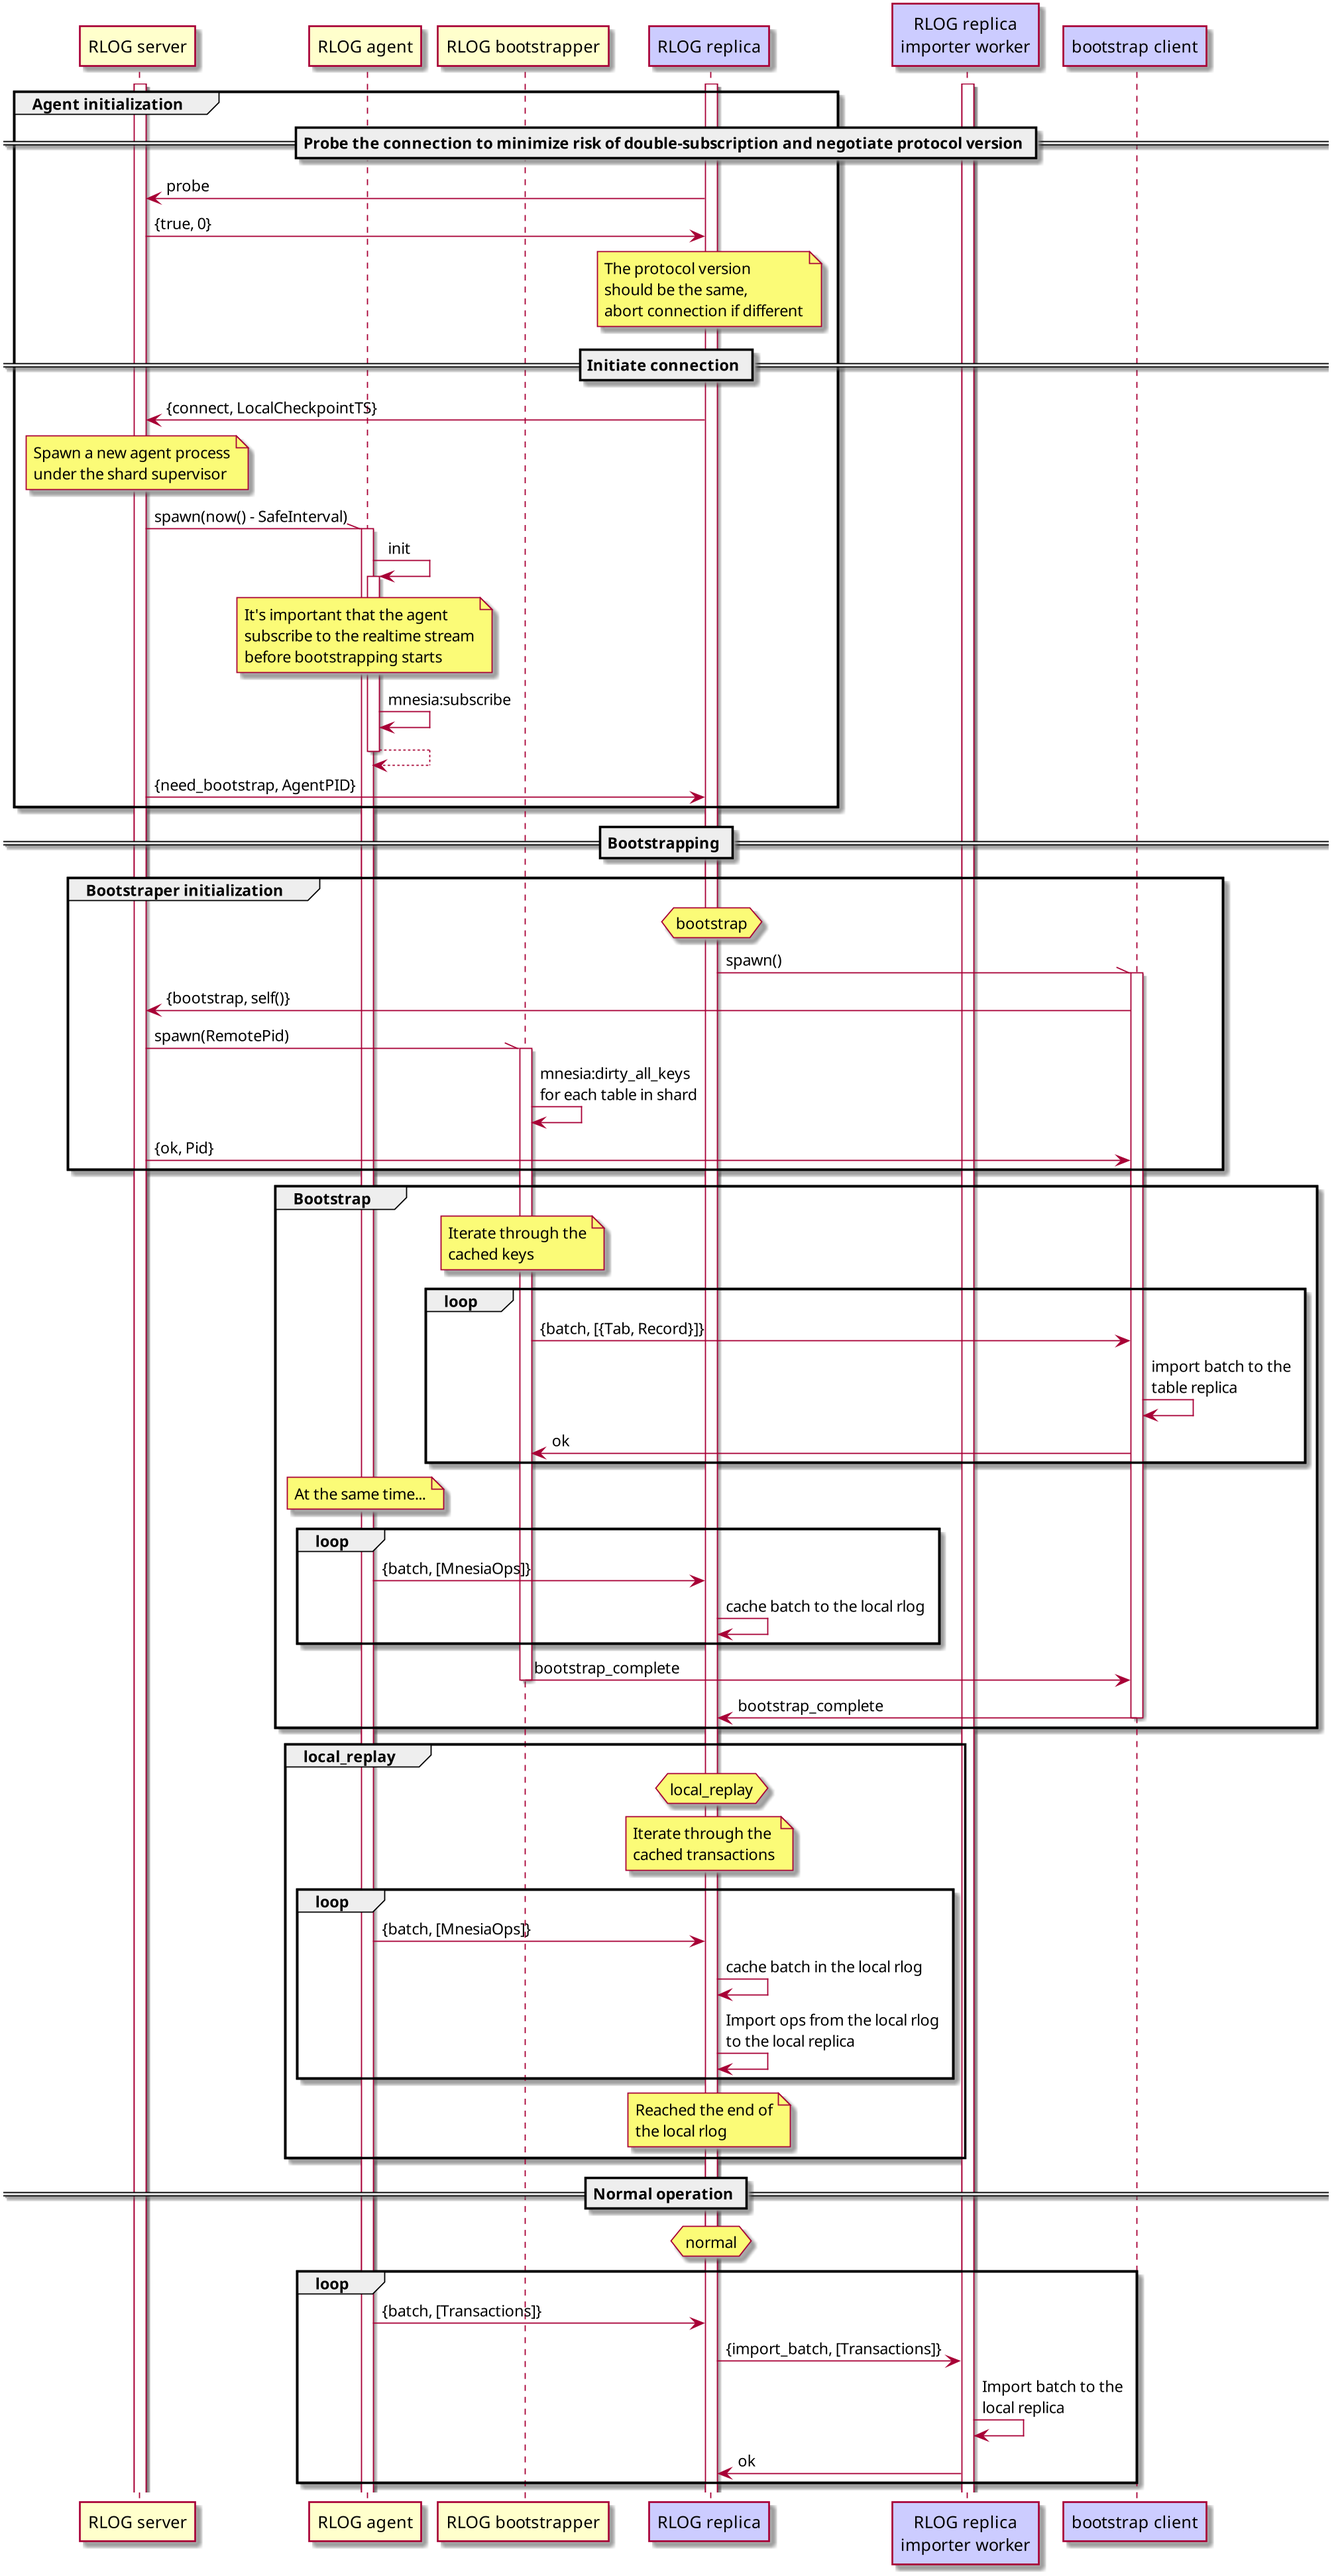
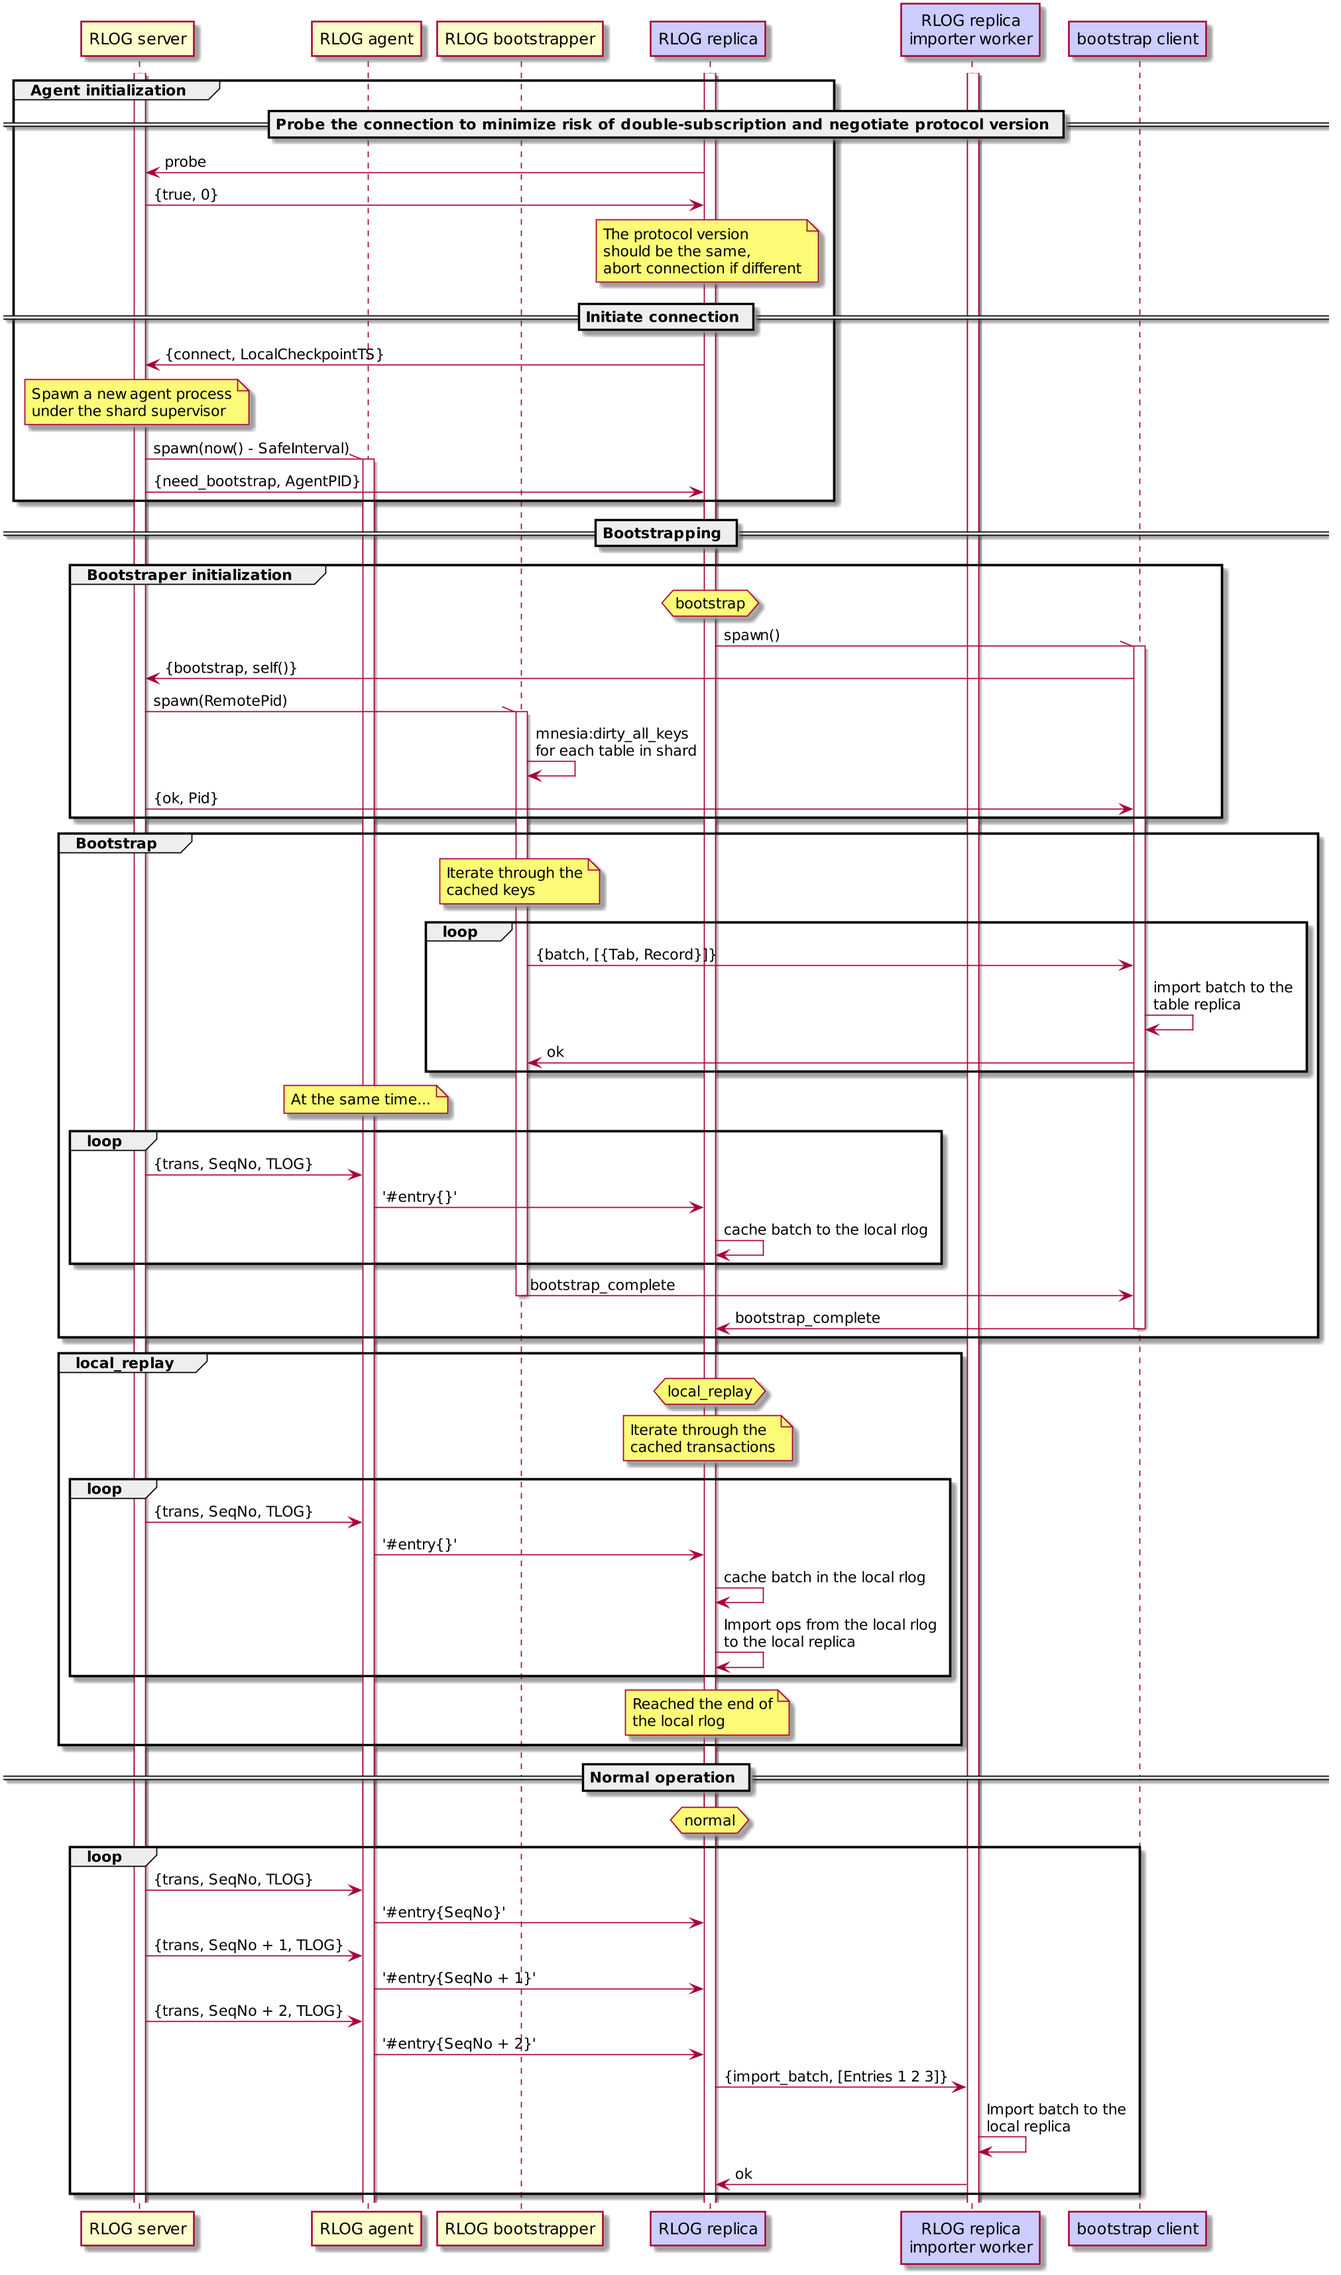
docs: Update outdated documentation

Changed region(s): [[0.0, 0.0, 0.9965, 0.9977], [0.0311, 0.9353, 0.0623, 0.9665]]

diff --git a/doc/rlog_internals.md b/doc/rlog_internals.md
@@ -2,15 +2,7 @@
 
 ## Transaction interception
 
-Due to limitations of mnesia event API, a rather convoluted scheme is used to gain access to the realtime transaction stream.
-
-Each RLOG shard is associated with a mnesia table named after the shard.
-These tables are called "rlog tables", and they are deeply magical.
-`mria:transaction` wrapper intercepts all update operations for the regular tables, and inserts them as a record to the rlog table just before the transaction commits.
-`mria_rlog_agent` processes subscribe to events for the rlog table, and therefore receive events containing the entire list of transaction ops.
-
-Currently the contents of the rlog tables are never read.
-To avoid a memory leak, rlog tables use "`null_copies`" mnesia storage backend (see `mria_mnesia_null_storage.erl`), that discards any data written there.
+We use a patched version of OTP that allows to hook into post-commit stage of the transaction, after the data has been dumped to the storage.
 
 ## Actors
 
@@ -20,6 +12,7 @@ RLOG server is a `gen_server` process that runs on the core node.
 There is an instance of this process for each shard.
 This process is registered with the shard's name.
 It is responsible for the initial communication with the RLOG replica processes, and spawning RLOG agent and RLOG bootstrapper processes.
+Also it receives the transaction messages intercepted by the hook and multicasts them to the agents.
 
 ### RLOG Agent
 
@@ -40,6 +33,18 @@ It also creates a bootstrap client process and manages it.
 Full process of shard replication:
 
 ![Replication MSC](replication-msc.png)
+
+#### RLOG replica importer worker
+
+`rlog_replica_importer_worker` is a helper process spawned by `rlog_replica` specifically to import batches of transactions into the local database.
+
+This importing is not done in the parent process because it can have a long message queue, which is really harmful for performance of mnesia transactions:
+During commit stage, the transaction does a receive without ref trick, so it has to scan the entire mailbox.
+The protocol between `rlog_replica_importer_worker` and `rlog_replica` processes has been designed in such a way that the former process never has more than one message in the mailbox, hence mnesia transactions initiated from this process run much faster.
+
+Note that replica sends transactions to the importer worker in batches.
+Replica process maintains an internal queue of transactions from the upstream agent, where the messages are accumulated while the batch is being imported by the importer worker.
+Once the batch is fully imported, replica process immediately initiates importing of the next batch.
 
 ### RLOG bootstrapper (client/server)
 
